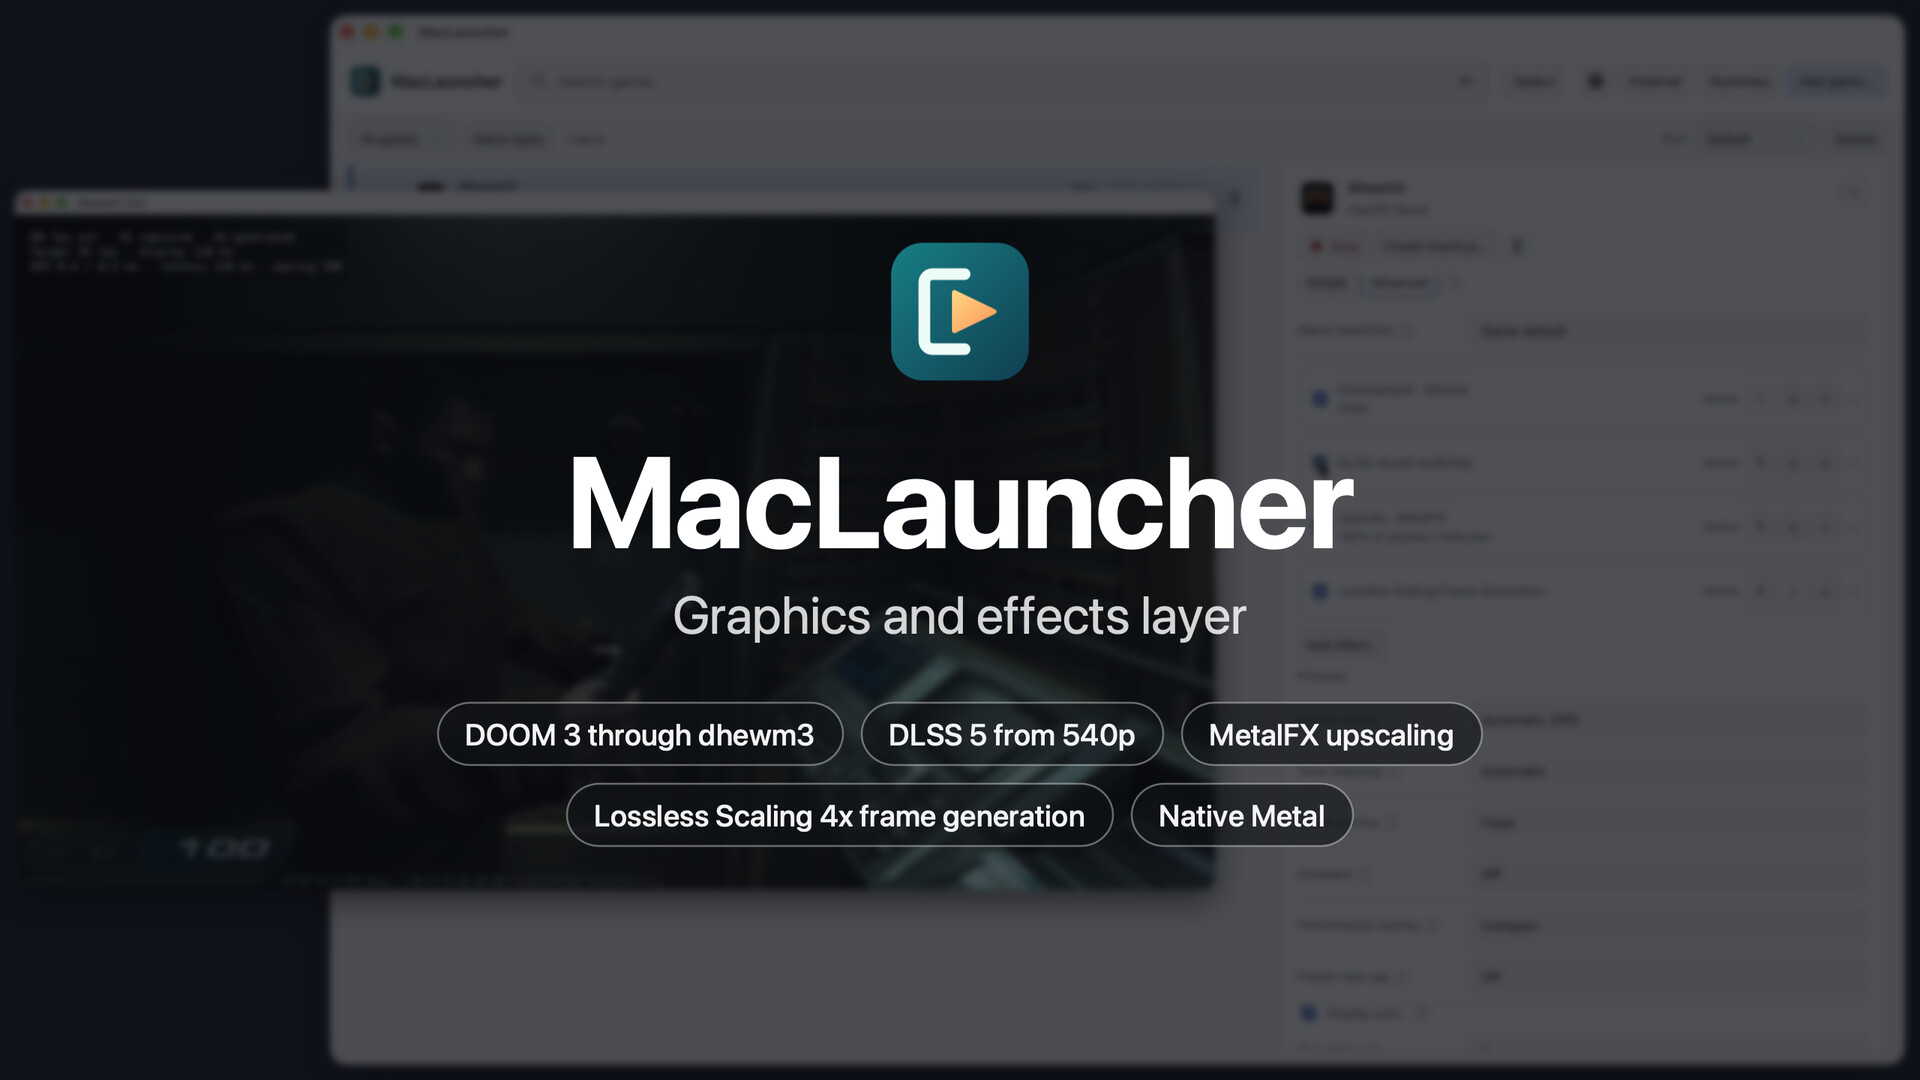
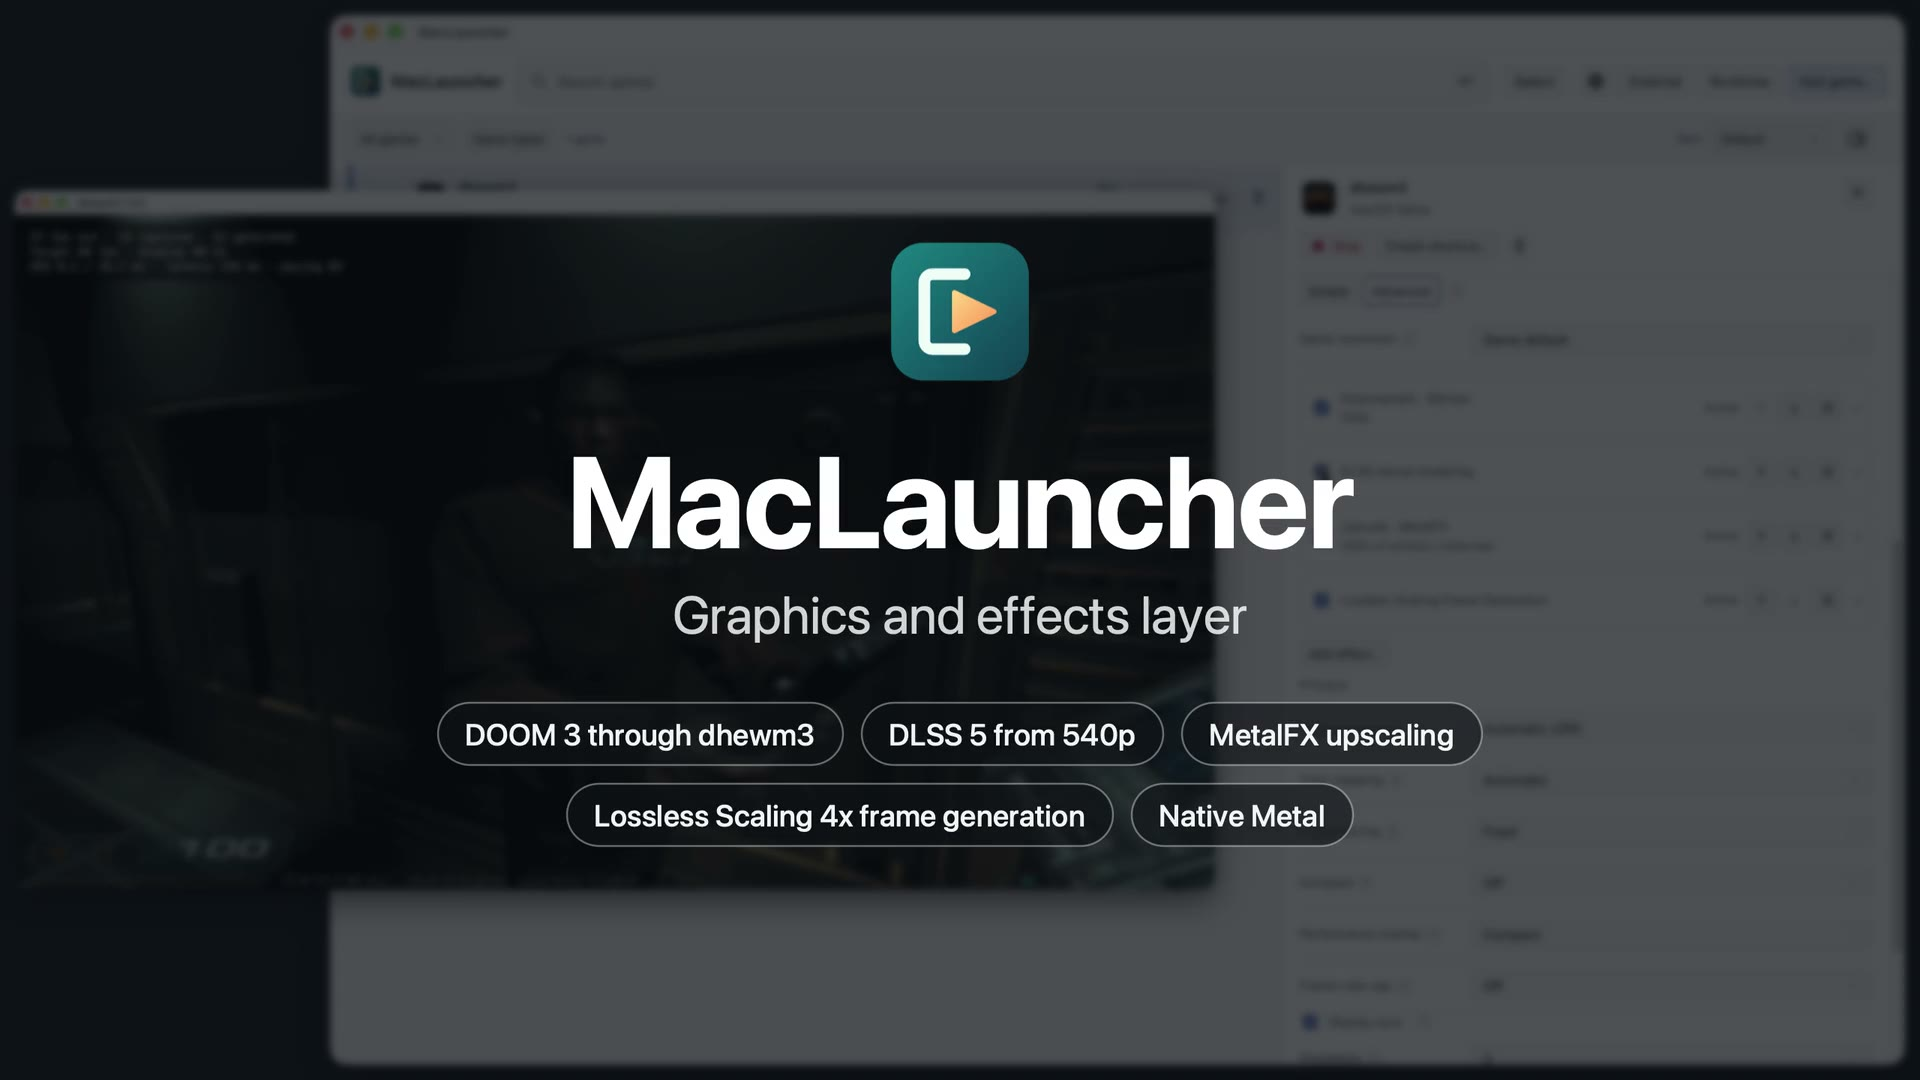
Show the retaken runtime and graphics videos in the README and website
Generated-by: LLM

diff --git a/README.md b/README.md
@@ -27,7 +27,7 @@ You can also run [from source](#development), and everything should be the same.
 
 # MacLauncher as a native runtime system
 
-https://github.com/user-attachments/assets/80d62d40-46c7-4d63-8ee4-8771015b9757
+https://github.com/user-attachments/assets/923b7374-076f-4b5d-aa5d-30dfb9f864bf
 
 *Shown: The Penjikent Creature, a [Godot](https://godotengine.org/) game packaged for Windows, dragged in as its `.exe`. MacLauncher detects Godot 3.5.2, downloads the matching runtime after asking, and plays it natively, without WINE. The installed Godot versions are then managed in **Runtimes**.*
 
@@ -114,7 +114,7 @@ Most of the above runtimes are existing tools with MacLauncher managing them. Ho
 
 # MacLauncher as a graphics and effects layer
 
-https://github.com/user-attachments/assets/593baa73-ed69-4e54-a40a-c7c47b437d2d
+https://github.com/user-attachments/assets/5a99ddfb-b73c-4cb6-b037-1640686f7fe4
 
 *Shown: the DOOM 3 demo running natively through [dhewm3](https://github.com/dhewm/dhewm3). First a CRT filter and grayscale in the Simple view, with the split and difference views, then the DLSS chain described below, in the Advanced view: downsample to 540p, DLSS 5, MetalFX back up to the window, and Lossless Scaling frame generation at 4x. The performance overlay shows the ~15fps coming out of DLSS turning into 60fps on screen, and DLSS and frame generation are switched off and on again live.*
 
